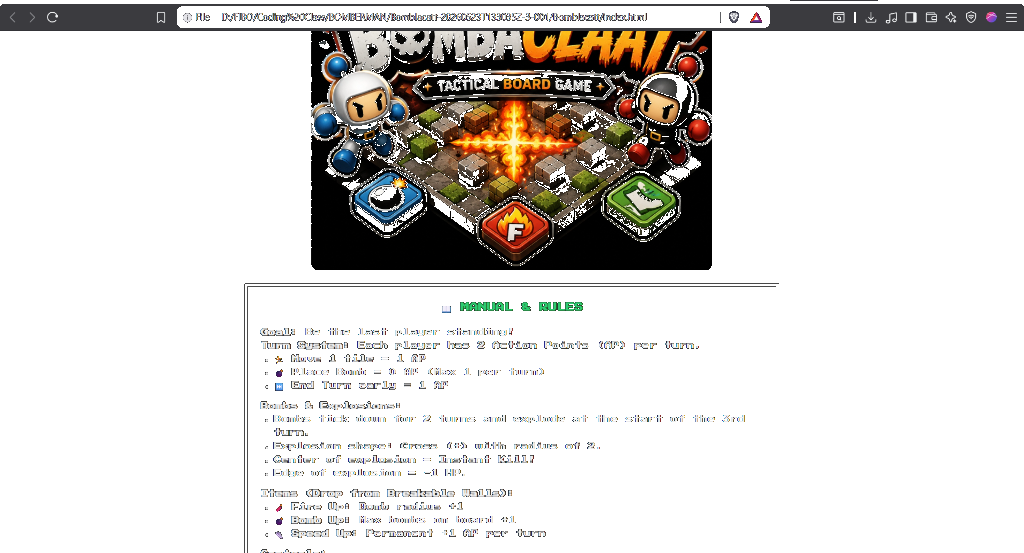
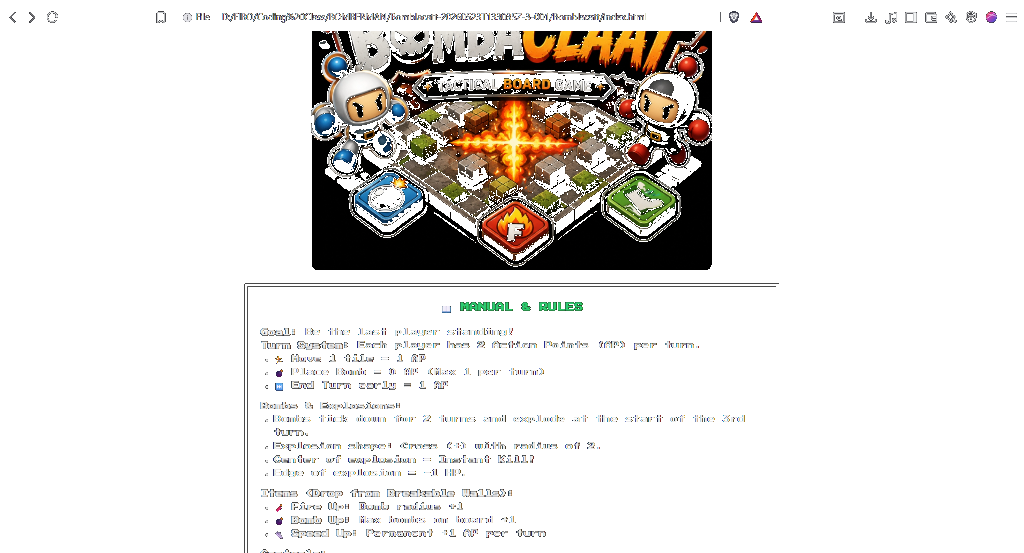
Fix: Add all 6 new characters and crop sprite sheets properly

diff --git a/game.js b/game.js
@@ -31,8 +31,12 @@ let bombPlacedThisTurn = false;
 let gameOver = false;
 
 // Character Selection
-const availableChars = ['assets/char1.png', 'assets/char2.png'];
-let playerSelectedChars = [0, 1, 0, 1, 0, 1]; // Indexes for up to 6 players
+const availableChars = [
+    'assets/char1.png', 'assets/char2.png',
+    'assets/char3.png', 'assets/char4.png',
+    'assets/char5.png', 'assets/char6.png'
+];
+let playerSelectedChars = [0, 1, 2, 3, 4, 5]; // Indexes for up to 6 players
 
 function updateCharSelectUI() {
     charSelectGrid.innerHTML = '';

diff --git a/process_sprites.py b/process_sprites.py
@@ -1,0 +1,64 @@
+import sys
+import os
+from PIL import Image
+
+# Configuration for the 6 sprites
+# We specify (columns, rows) for each raw image so we can crop the top-left sprite.
+# We'll just map them by index 1 to 6.
+# You need to adjust the cols/rows if they don't match.
+sprite_configs = {
+    'char1_raw.png': (1, 1), # Assume 1x1 if unknown, we'll check aspect ratio
+    'char2_raw.png': (1, 1),
+    'char3_raw.jpg': (3, 4), # Snorlax
+    'char4_raw.jpg': (4, 4), # Dawn
+    'char5_raw.jpg': (2, 4), # Mimikyu
+    'char6_raw.jpg': (2, 4), # Grookey
+}
+
+def process_image(filename, cols, rows, tolerance=30):
+    in_path = os.path.join("assets", filename)
+    out_name = filename.replace("_raw.jpg", ".png").replace("_raw.png", ".png")
+    out_path = os.path.join("assets", out_name)
+    
+    if not os.path.exists(in_path):
+        print(f"File {in_path} does not exist.")
+        return
+
+    try:
+        img = Image.open(in_path).convert("RGBA")
+        
+        # If it's 1x1 config, let's guess based on aspect ratio or just use 4 rows
+        # Actually let's assume the user's first 2 images might also be sprite sheets.
+        # Let's just crop to the first col/row
+        w, h = img.size
+        sprite_w = w // cols
+        sprite_h = h // rows
+        
+        # Crop top-left sprite
+        # For Snorlax, the front facing is usually row 1, col 2.
+        # Let's just grab the top-left one (0, 0)
+        box = (0, 0, sprite_w, sprite_h)
+        cropped = img.crop(box)
+        
+        # Remove background (assume top-left pixel is bg)
+        data = cropped.getdata()
+        bg_color = data[0]
+        
+        new_data = []
+        for item in data:
+            if (abs(item[0] - bg_color[0]) <= tolerance and
+                abs(item[1] - bg_color[1]) <= tolerance and
+                abs(item[2] - bg_color[2]) <= tolerance):
+                new_data.append((255, 255, 255, 0))
+            else:
+                new_data.append(item)
+                
+        cropped.putdata(new_data)
+        cropped.save(out_path, "PNG")
+        print(f"Processed {filename} -> {out_name} (cropped to {sprite_w}x{sprite_h})")
+    except Exception as e:
+        print(f"Error processing {filename}: {e}")
+
+# Process all 6
+for filename, (cols, rows) in sprite_configs.items():
+    process_image(filename, cols, rows)
